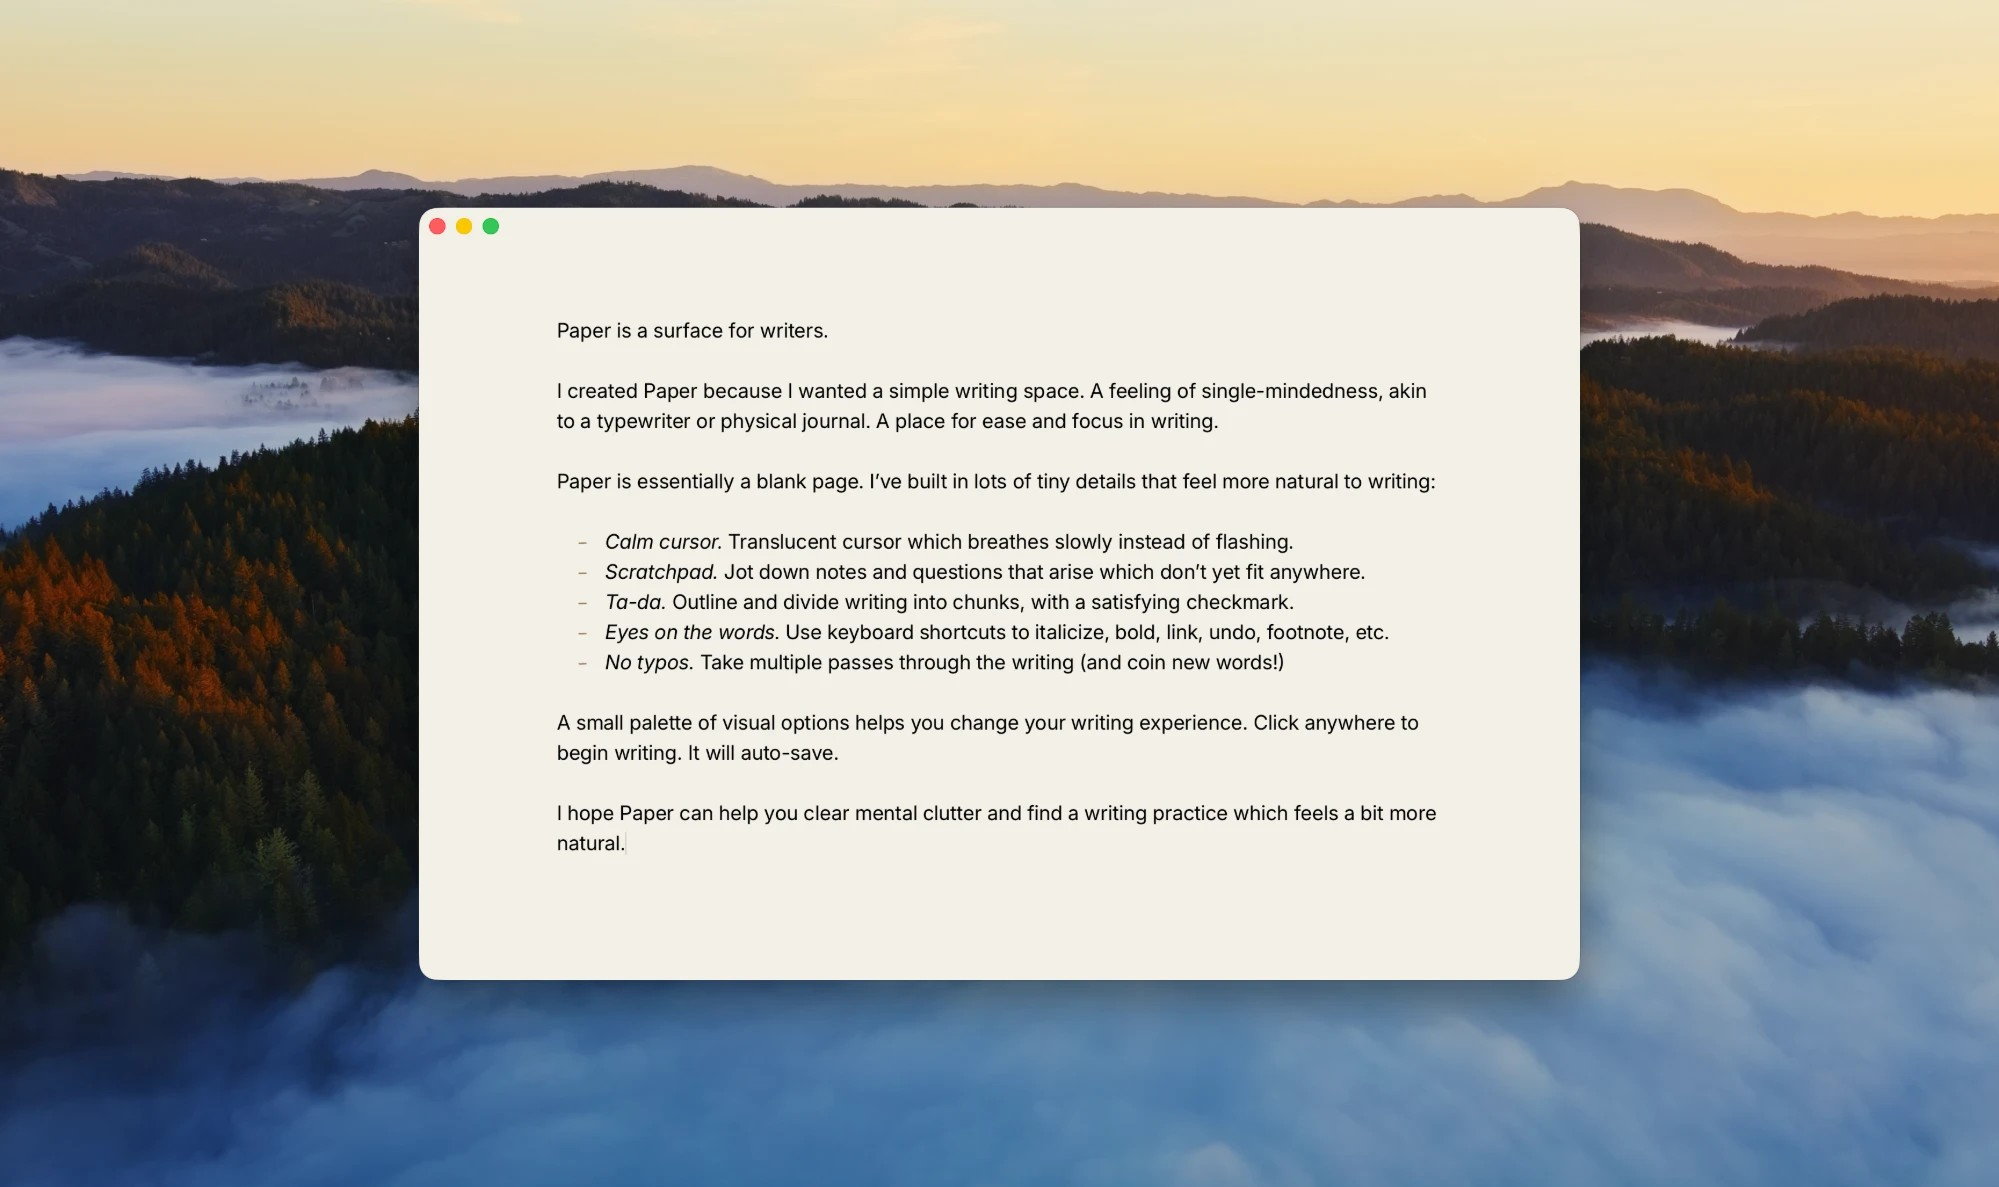
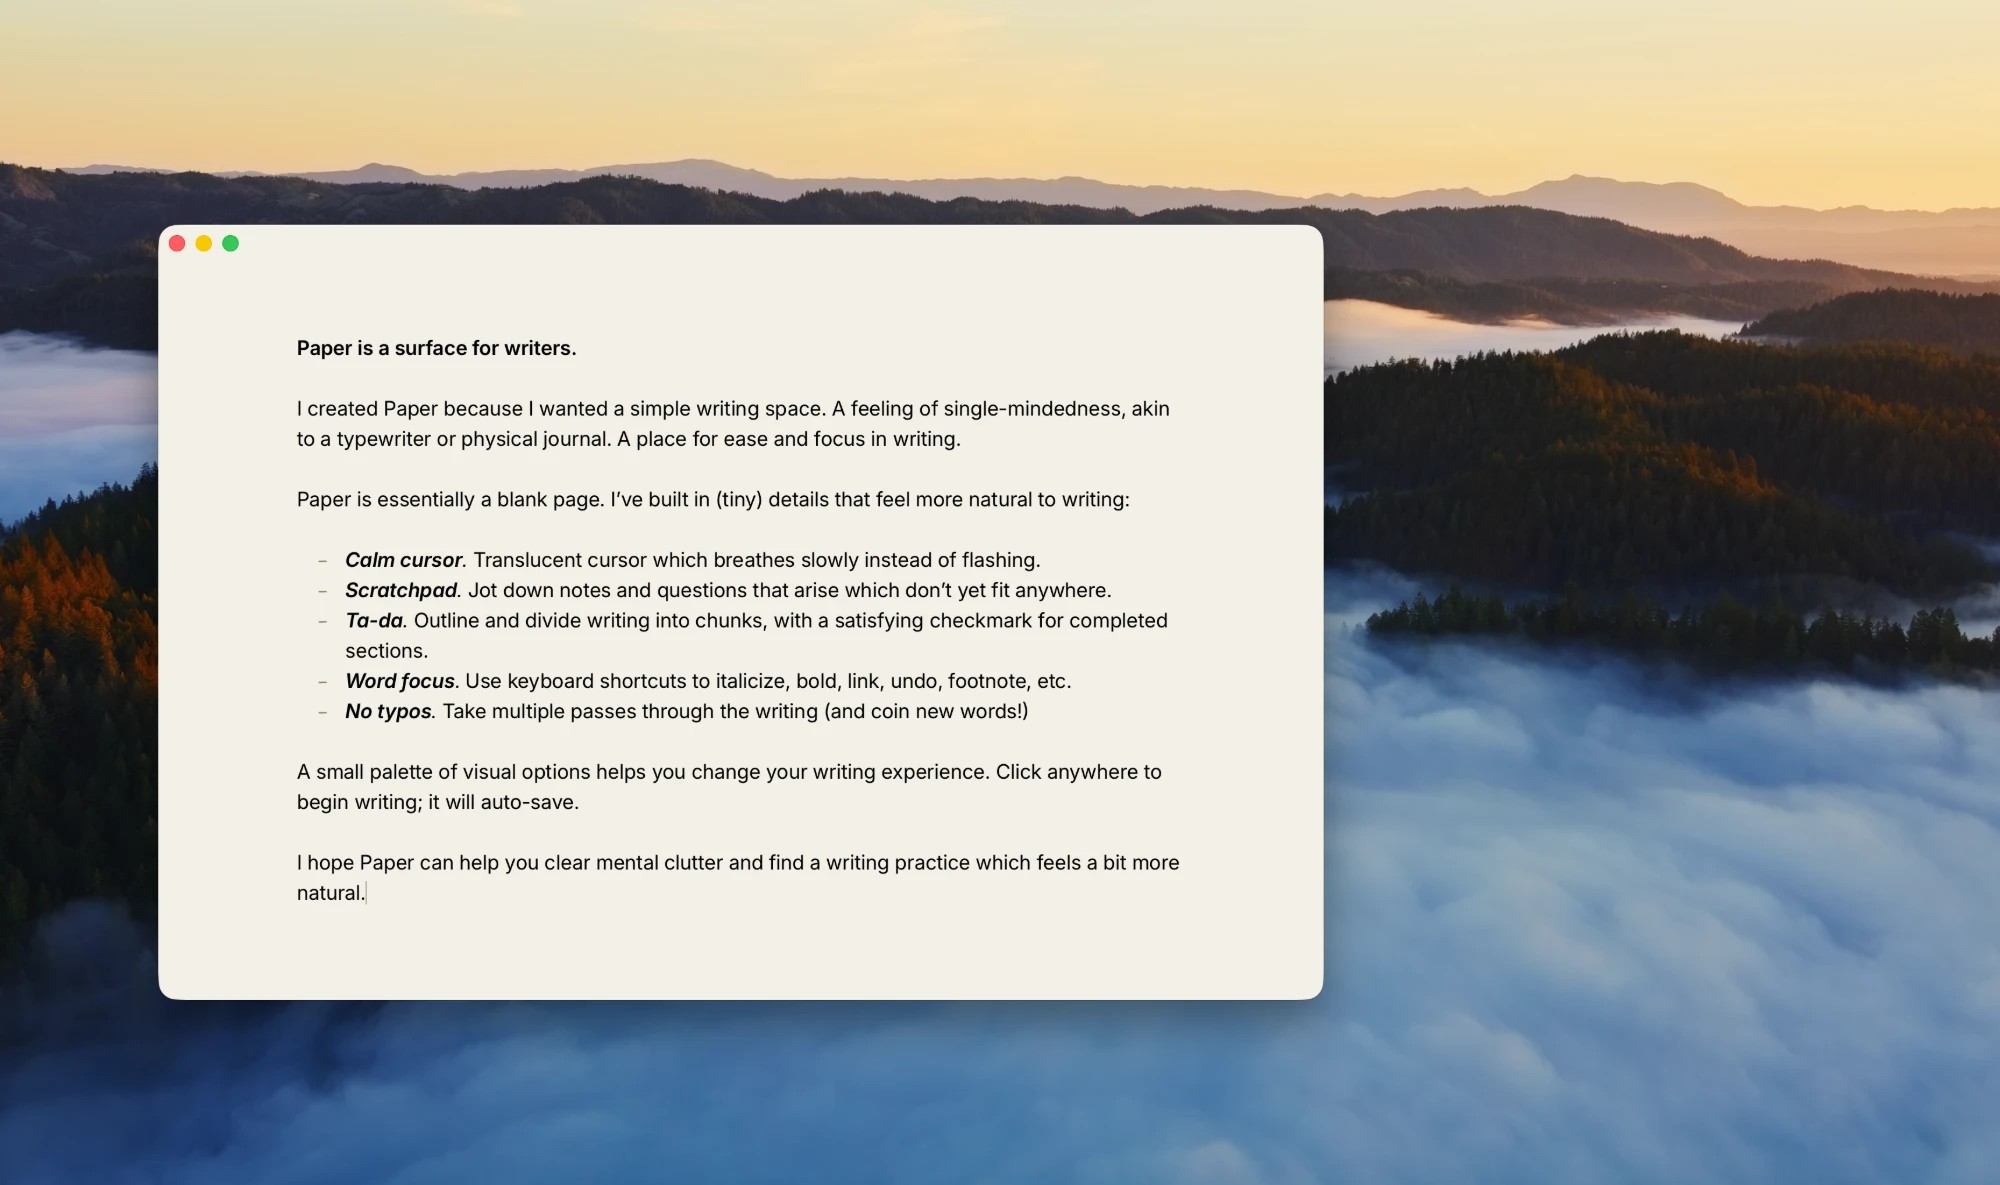
Hold a tiny page to drag it into your own order; README: a smaller title and a new screenshot

Changed region(s): [[0.0, 0.1249, 1.0, 0.8743], [0.8994, 0.4684, 1.0, 0.5932], [0.8684, 0.2186, 1.0, 0.281]]

diff --git a/app/index.html b/app/index.html
@@ -246,10 +246,12 @@
   .papers-view #notesWrap, .papers-view #todoWrap, .papers-view #options .ld { display: none; }
   .papers-view #count, .papers-view #export { visibility: hidden; }
   .papers-view .tail { margin-top: 0; } /* the settings above it are hidden, so the arrow sits closer to the pages: about half the room */
-  .pgrid { flex: 1; min-height: 0; overflow-y: auto; display: grid; grid-template-columns: repeat(2, minmax(0, 1fr)); grid-auto-rows: max-content; align-content: start; gap: 18px 18px; padding: 2px 1px 8px; } /* rows as tall as the pages, so the gap below each page stays */
+  .pgrid { position: relative; flex: 1; min-height: 0; overflow-y: auto; display: grid; grid-template-columns: repeat(2, minmax(0, 1fr)); grid-auto-rows: max-content; align-content: start; gap: 18px 18px; padding: 2px 1px 8px; } /* rows as tall as the pages, so the gap below each page stays */
   .pg { aspect-ratio: 8.5 / 11; min-width: 0; border: 1px solid #c4bdb0; background: var(--paper); padding: 10px 10px; cursor: pointer; overflow: hidden; }
   .pg:hover { border-color: var(--soft); }
   .pg.on { border-color: rgba(0, 0, 0, .8); }
+  .pg { user-select: none; -webkit-user-select: none; }
+  .pg.lifted { position: relative; z-index: 3; cursor: grabbing; box-shadow: 0 6px 18px rgba(60, 45, 20, .14); } /* picked up: it rides above the others */
   /* hovering a tiny page shows a light X in its top corner: click it to take the paper off the tiny pages (kept in ~/Paper/removed) */
   .pg { position: relative; }
   .pg .del { position: absolute; right: 3px; top: 3px; padding: 4px; background: var(--paper); opacity: 0; transition: opacity .2s; cursor: pointer; }
@@ -946,6 +948,11 @@
     for (const p of papers.filter((p) => p.name !== docName && p.name.startsWith('paper-') && !p.first.trim())) files.remove(p.name);
     papers.splice(0, papers.length, ...papers.filter((p) => p.name === docName || !p.name.startsWith('paper-') || p.first.trim()));
     papers.sort((a, b) => b.modified - a.modified);
+    // once you've dragged them into an order, they keep it; papers new since then come first, newest at the top
+    if (s.order) {
+      const at = (p) => s.order.indexOf(p.name);
+      papers.sort((a, b) => (at(a) < 0 || at(b) < 0) ? (at(a) < 0 ? 0 : 1) - (at(b) < 0 ? 0 : 1) : at(a) - at(b));
+    }
     grid.innerHTML = '';
     const plus = document.createElement('div');
     plus.className = 'pg new';
@@ -955,6 +962,7 @@
     for (const p of papers) {
       const el = document.createElement('div');
       el.className = 'pg' + (p.name === docName ? ' on' : '');
+      el.dataset.name = p.name;
       const t = document.createElement('span');
       const blank = !p.first.trim();
       t.className = 't' + (blank ? ' blank' : '');
@@ -968,12 +976,73 @@
         del.onclick = (e) => { e.stopPropagation(); deletePaper(p, true, el); };
         el.append(del);
       }
-      el.onclick = async () => { if (p.name !== docName) await openDoc(p.name); toggleBar(false); }; // straight to the paper, side bar closed
+      el.onclick = async () => {
+        if (el.dataset.dragged) return void delete el.dataset.dragged; // the end of a drag, not a click
+        if (p.name !== docName) await openDoc(p.name);
+        toggleBar(false); // straight to the paper, side bar closed
+      };
+      dragToReorder(el, grid);
       el.oncontextmenu = (e) => { e.preventDefault(); pageMenu(e, p, el); };
       grid.append(el);
     }
     grid.append(plus);
     grid.querySelectorAll('.pg:not(.new) .t:not(.blank)').forEach(fitPreview);
+  }
+
+  // hold a tiny page (or press and move it) to pick it up, then drag it to a new place; the others make room
+  function dragToReorder(el, grid) {
+    el.addEventListener('pointerdown', (e) => {
+      if (e.button !== 0 || e.target.closest('.del')) return;
+      const x0 = e.clientX, y0 = e.clientY;
+      let lifted = false, start = null, base = null;
+      const slot = () => { const t = el.style.transform; el.style.transform = 'none'; const r = el.getBoundingClientRect(); el.style.transform = t; return r; };
+      const lift = () => {
+        lifted = true;
+        start = base = slot();
+        el.classList.add('lifted');
+      };
+      const hold = setTimeout(lift, 220);
+      const move = (ev) => {
+        if (!lifted) { if (Math.hypot(ev.clientX - x0, ev.clientY - y0) > 6) { clearTimeout(hold); lift(); } else return; }
+        ev.preventDefault();
+        const pages = [...grid.querySelectorAll('.pg:not(.new)')];
+        // where each page sits in the grid, not where its slide happens to have it right now
+        const g = grid.getBoundingClientRect();
+        const over = pages.find((x) => {
+          if (x === el) return false;
+          const left = g.left + x.offsetLeft - grid.scrollLeft, top = g.top + x.offsetTop - grid.scrollTop;
+          return ev.clientX >= left && ev.clientX <= left + x.offsetWidth && ev.clientY >= top && ev.clientY <= top + x.offsetHeight;
+        });
+        if (over) {
+          const rest = pages.filter((x) => x !== el);
+          const was = new Map(rest.map((x) => [x, x.getBoundingClientRect()]));
+          if (pages.indexOf(el) > pages.indexOf(over)) over.before(el); else over.after(el);
+          base = slot();
+          for (const x of rest) { // the others slide into their new places
+            const a = was.get(x), b = x.getBoundingClientRect();
+            if (a.left !== b.left || a.top !== b.top) x.animate([{ transform: `translate(${a.left - b.left}px, ${a.top - b.top}px)` }, { transform: 'none' }], { duration: 180, easing: 'cubic-bezier(.2, .7, .2, 1)' });
+          }
+        }
+        el.style.transform = `translate(${ev.clientX - x0 + start.left - base.left}px, ${ev.clientY - y0 + start.top - base.top}px)`;
+      };
+      const up = () => {
+        clearTimeout(hold);
+        removeEventListener('pointermove', move);
+        removeEventListener('pointerup', up);
+        removeEventListener('pointercancel', up);
+        if (!lifted) return;
+        el.dataset.dragged = '1';
+        setTimeout(() => delete el.dataset.dragged, 0);
+        el.classList.remove('lifted');
+        el.style.transform = '';
+        s.order = [...grid.querySelectorAll('.pg:not(.new)')].map((x) => x.dataset.name);
+        local.set('settings', JSON.stringify(s));
+        if (native) ask({ op: 'settings', text: JSON.stringify(s) });
+      };
+      addEventListener('pointermove', move);
+      addEventListener('pointerup', up);
+      addEventListener('pointercancel', up);
+    });
   }
 
   // right-click on a tiny page: Duplicate, or Delete (to the Trash, so it can be got back)

diff --git a/README.md b/README.md
@@ -1,7 +1,7 @@
 <h1>
   <picture>
     <source media="(prefers-color-scheme: dark)" srcset="media/title-dark.png">
-    <img src="media/title-light.png" alt="Paper" height="29">
+    <img src="media/title-light.png" alt="Paper" height="26">
   </picture>
 </h1>
 
